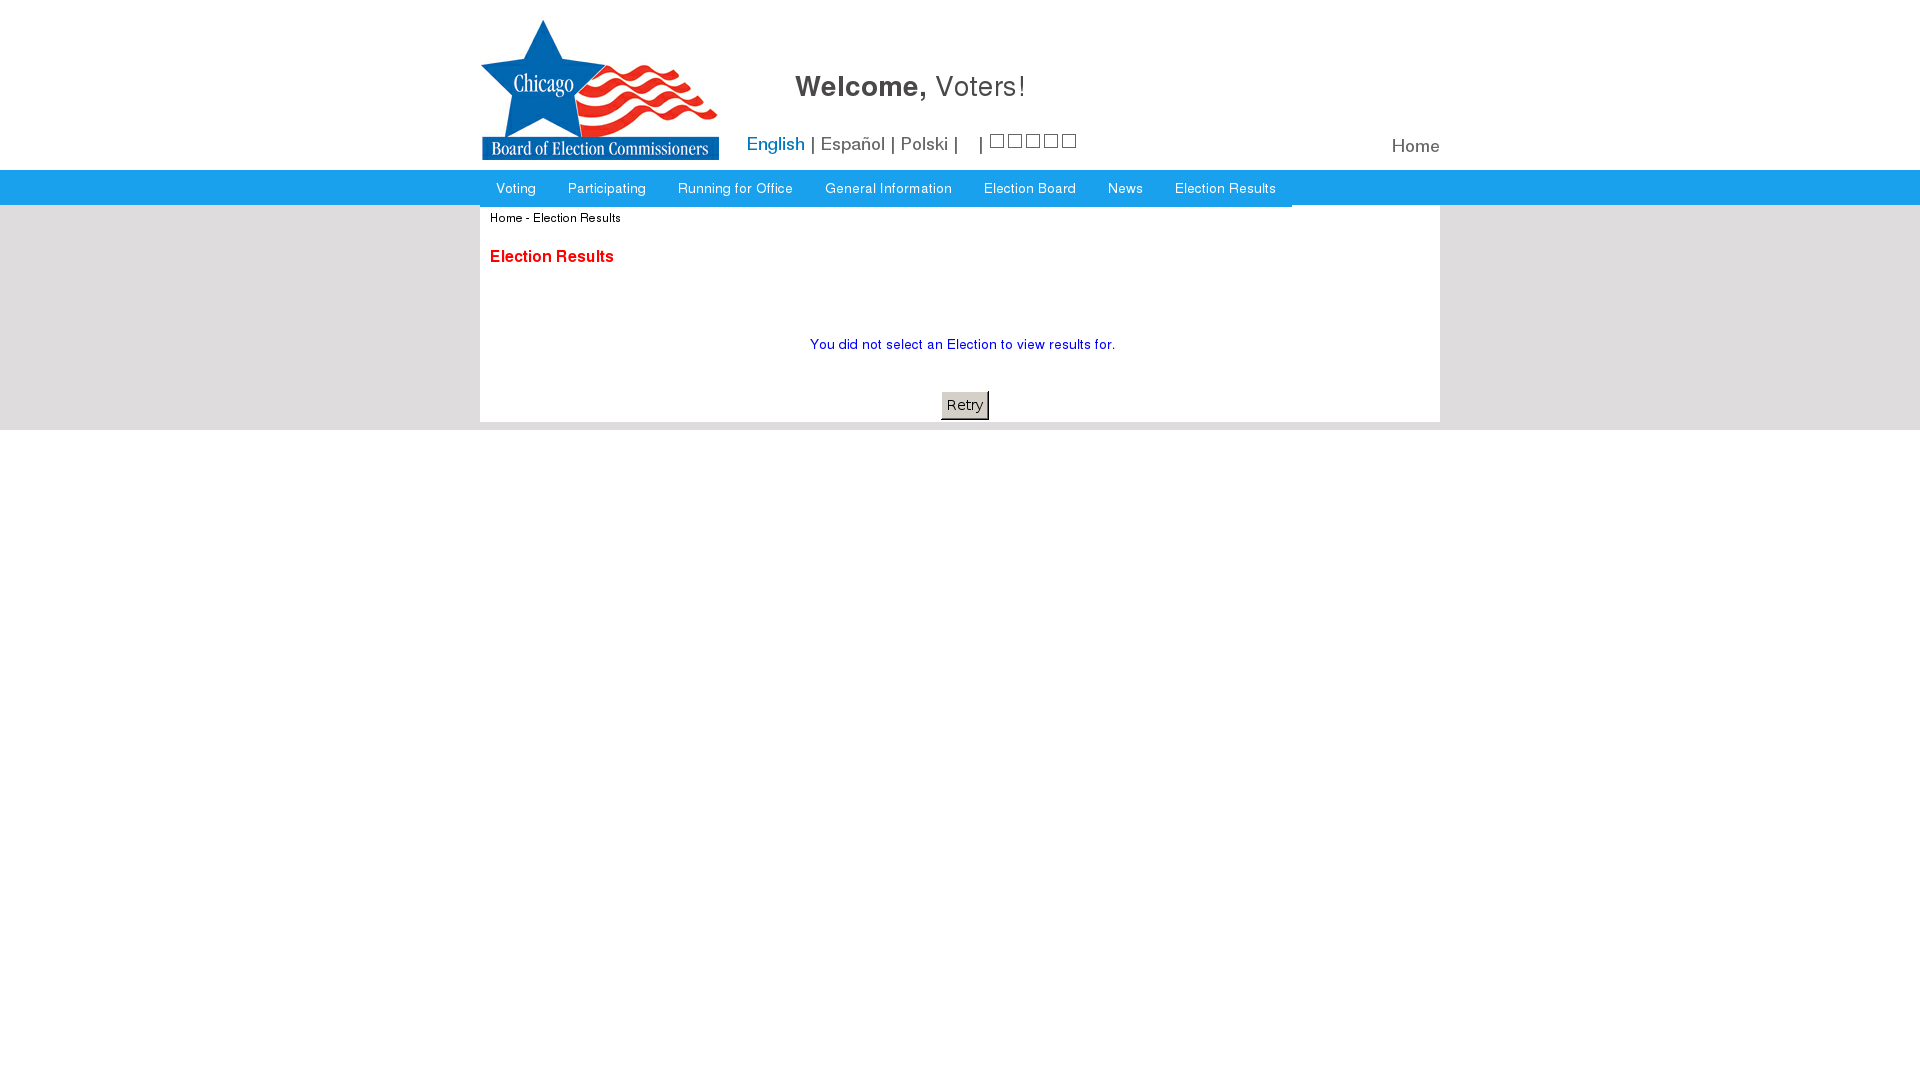
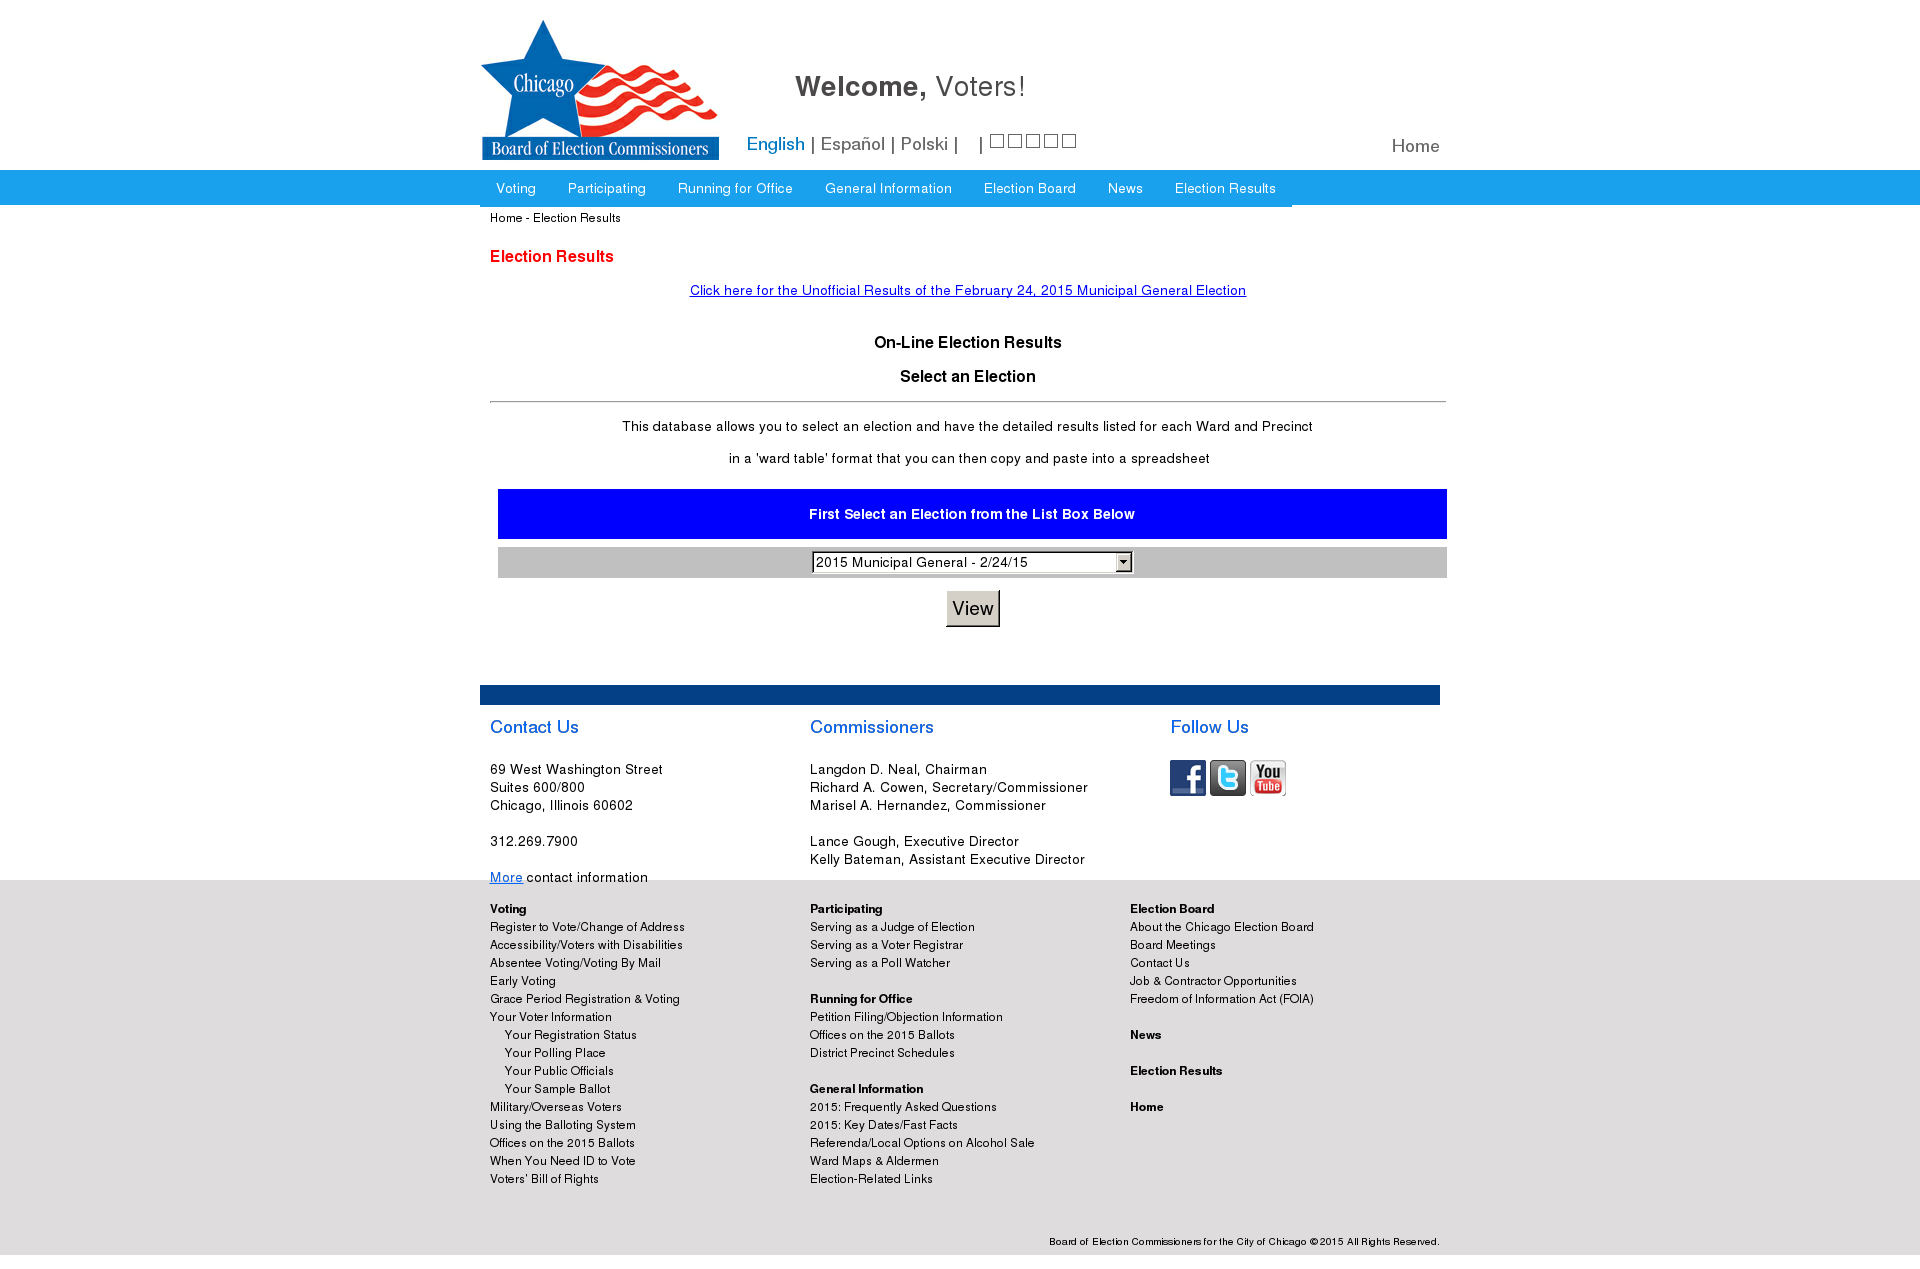
Update .gitignore

diff --git a/scrape.js b/scrape.js
@@ -1,9 +1,18 @@
+var async = require('async');
 var $ = require('jquerygo');
-$.config.AddJQuery = false;
 
-$.visit('http://www.chicagoelections.com/en/election3.asp', function() {
-    $('[name=D3]').val('2015 Municipal General - 2/24/15                  ', function() {
+$.config.site = 'http://www.chicagoelections.com';
+
+async.series([
+    $.go('visit','/en/election3.asp'),
+    $('[name=D3]').go('val', '2015 Municipal General - 2/24/15                  '),
+    $('input[type=submit]').go('click'),
+    $.go('waitForPage'),
+    function(done) {
         $.capture(__dirname + '/screenshot.png');
-    });
+        done();
+    }
+], function() {
+    console.log('Finished');
     $.close();
 });
